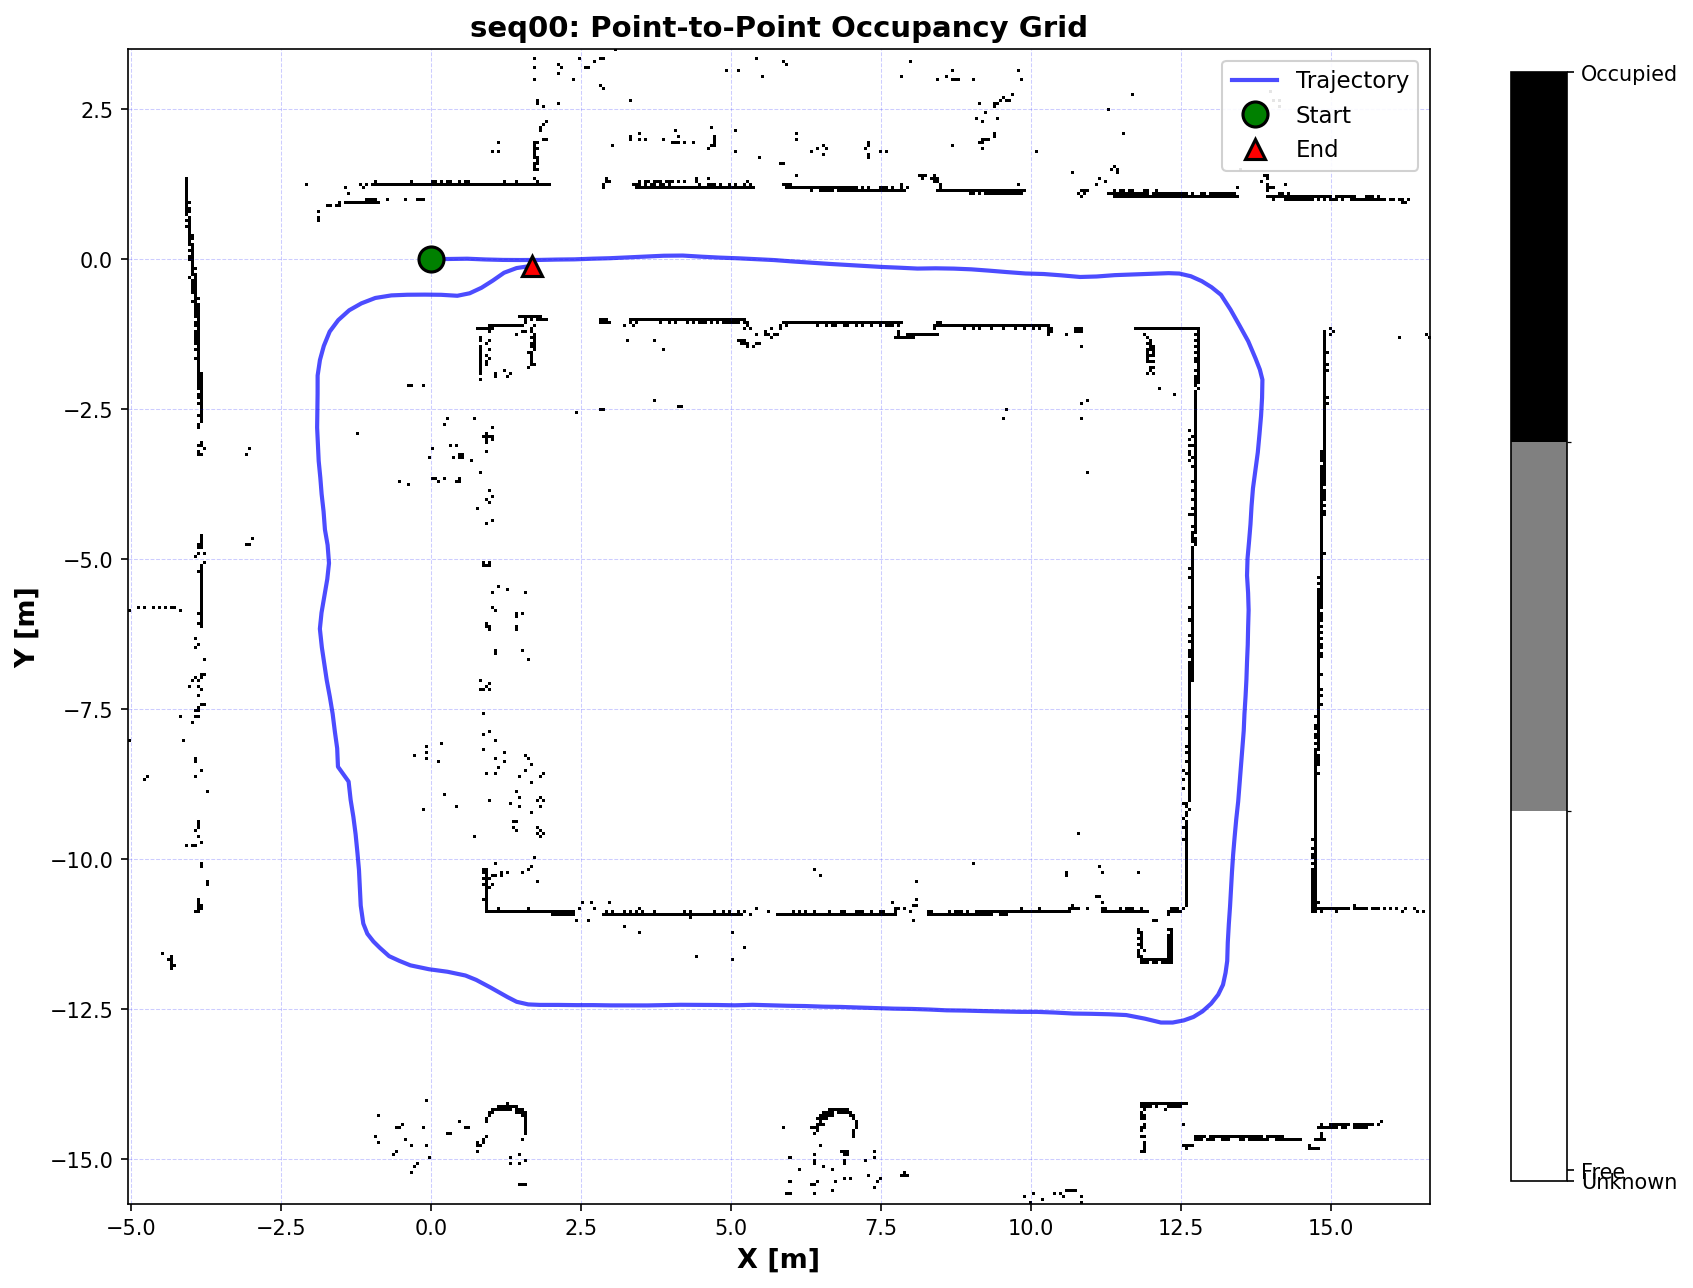
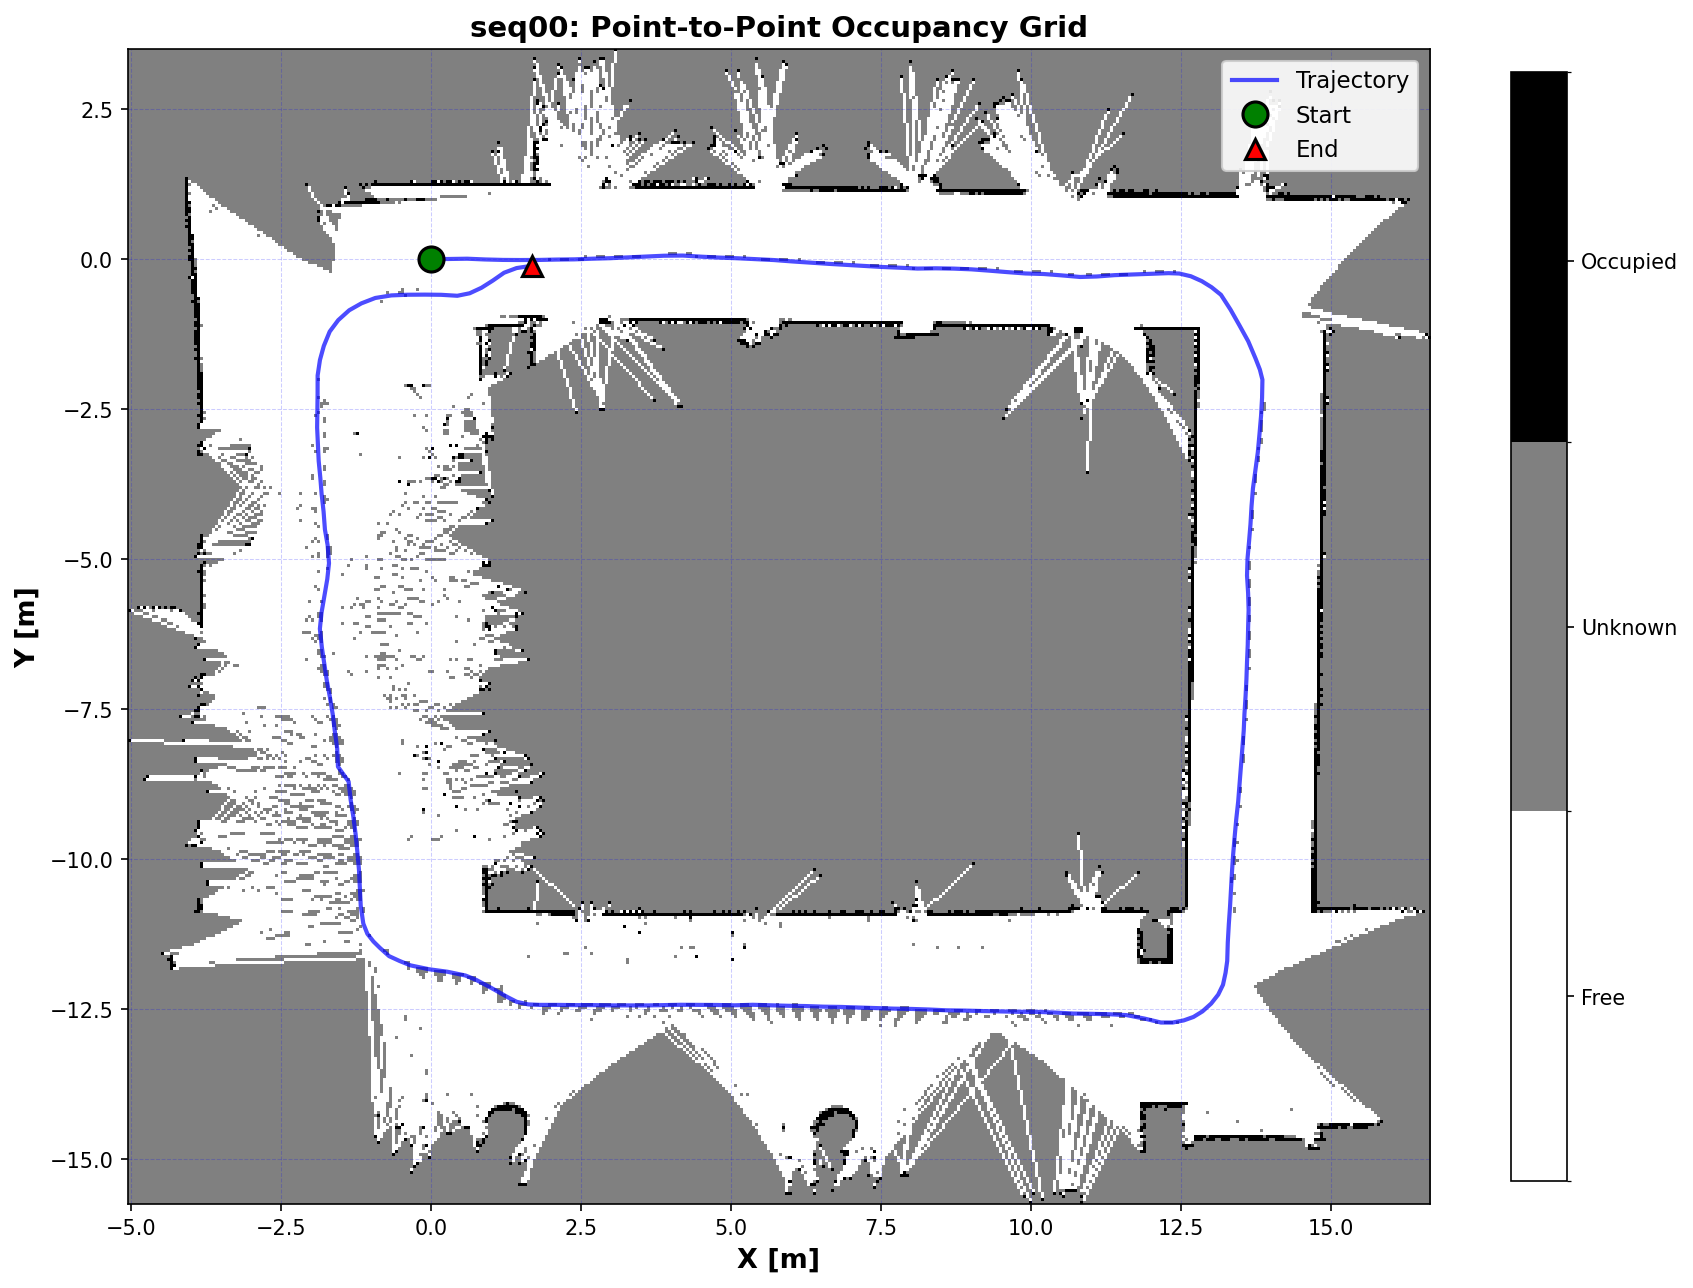
fix lable

diff --git a/part2_icp_refine/utils.py b/part2_icp_refine/utils.py
@@ -266,8 +266,13 @@ def plot_occupancy_grid(occupancy_grid, grid_info, trajectory=None,
                        title='Occupancy Grid Map', show_trajectory=True):
     fig, ax = plt.subplots(figsize=(14, 12))
 
+    display_grid = np.zeros_like(occupancy_grid, dtype=np.float32)
+    display_grid[occupancy_grid == 0] = -1
+    display_grid[occupancy_grid == -1] = 50
+    display_grid[occupancy_grid == 100] = 100
+
     cmap = plt.cm.colors.ListedColormap(['white', 'gray', 'black'])
-    bounds = [-1, 33, 66, 100]
+    bounds = [-1.5, -0.5, 50.5, 100.5]
     norm = plt.cm.colors.BoundaryNorm(bounds, cmap.N)
 
     extent = [
@@ -277,7 +282,7 @@ def plot_occupancy_grid(occupancy_grid, grid_info, trajectory=None,
         grid_info['origin_y'] + grid_info['height'] * grid_info['resolution']
     ]
 
-    im = ax.imshow(occupancy_grid, cmap=cmap, norm=norm,
+    im = ax.imshow(display_grid, cmap=cmap, norm=norm,
                    origin='lower', extent=extent, interpolation='nearest')
 
     if show_trajectory and trajectory is not None:
@@ -290,8 +295,8 @@ def plot_occupancy_grid(occupancy_grid, grid_info, trajectory=None,
                 zorder=10, markeredgecolor='black', markeredgewidth=1.5)
         ax.legend(loc='best', fontsize=11, framealpha=0.9)
 
-    cbar = plt.colorbar(im, ax=ax, ticks=[-1, 0, 100], shrink=0.8)
-    cbar.ax.set_yticklabels(['Unknown', 'Free', 'Occupied'])
+    cbar = plt.colorbar(im, ax=ax, ticks=[-1, 25, 75], shrink=0.8)
+    cbar.ax.set_yticklabels(['Free', 'Unknown', 'Occupied'])
 
     ax.set_xlabel('X [m]', fontsize=13, fontweight='bold')
     ax.set_ylabel('Y [m]', fontsize=13, fontweight='bold')
